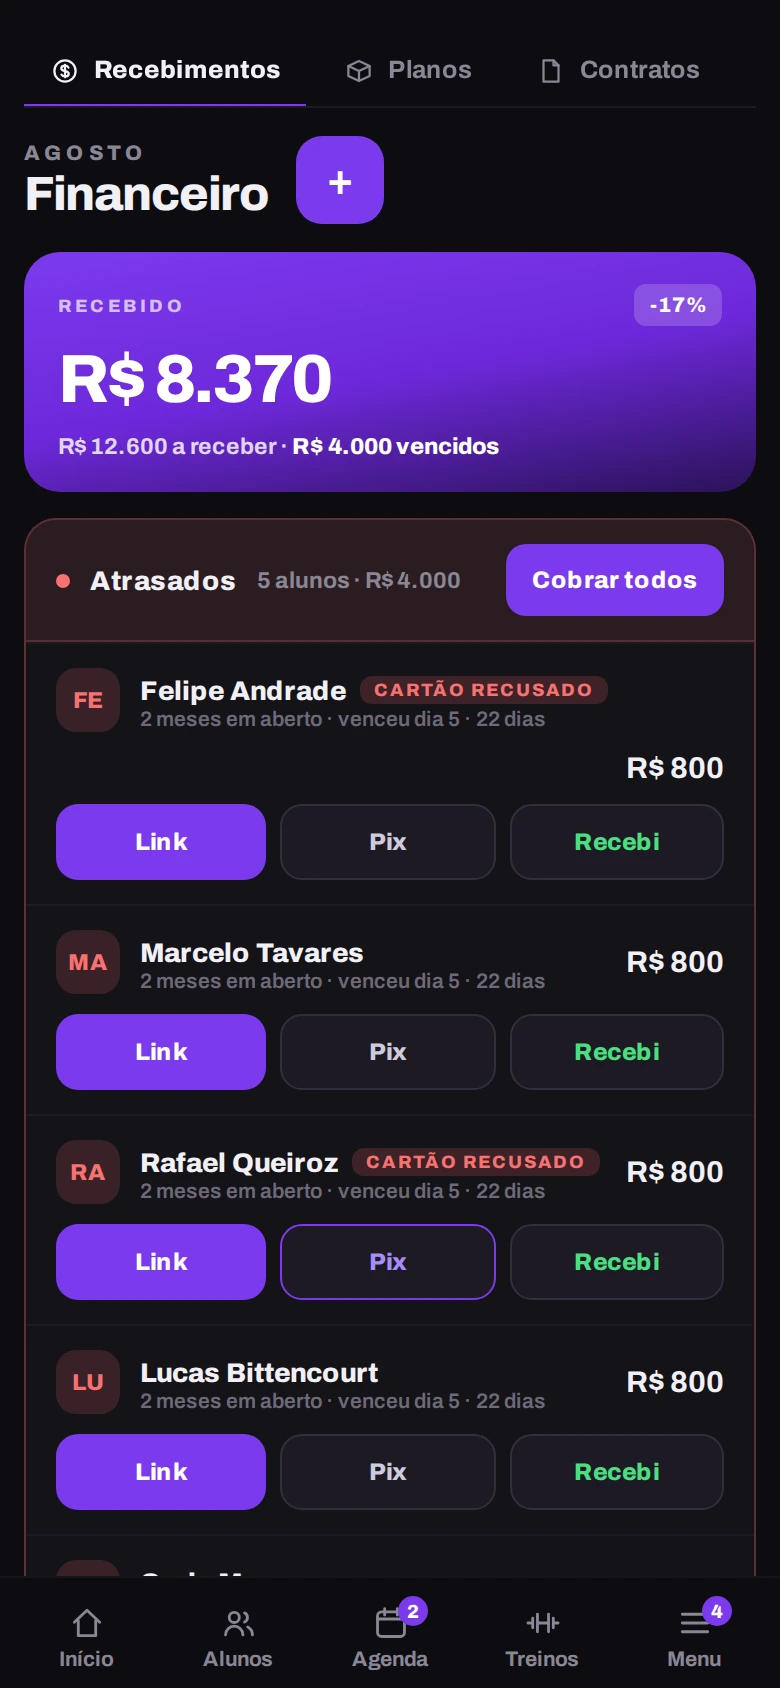
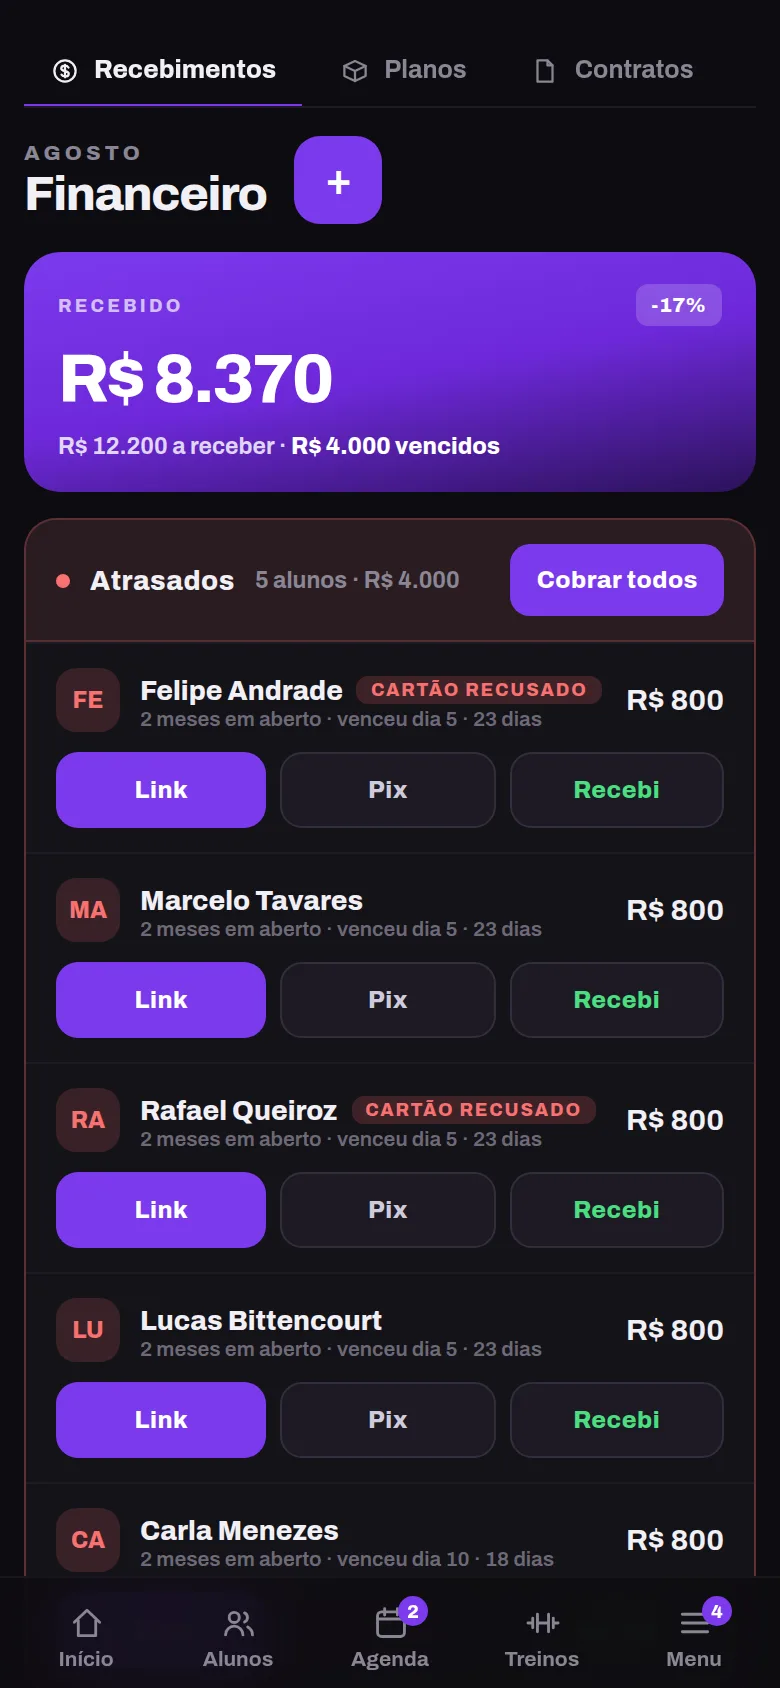
mt-v648: organograma enxuto — os departamentos viram carrossel de telas do painel
A grade de 10 cards de texto (que o Raphael achou extensa demais) virou o
mesmo celular de arrastar da vitrine do app: 8 telas REAIS do painel
(Resolver hoje, Montar treino com IA, Financeiro com atrasados, Alunos com
os filtros, Chat, Avaliação com evolução, Agenda e Minha página), cada uma
com a explicação curta embaixo — chip do departamento, uma frase e o
'Devolve:' verde — trocando junto com o arrasto. O card 00 · Diretoria
fecha a seção sozinho. As telas foram capturadas da demo-personal (com a
faixa de modo teste escondida) e convertidas pra webp; painel-treinos e
painel-financeiro foram trocadas pelas versões do redesenho atual. A seção
'O painel do dono' saiu (repetiria o slide do Financeiro). O JS dos dois
carrosseis virou UMA função (fazTour). Página: 8636 → 7947 px no
computador, 14026 → 11752 no celular.

diff --git a/personal-vendas.html b/personal-vendas.html
@@ -68,6 +68,12 @@
   .tourCap { text-align: center; color: #b9b3c6; font-size: 13.5px; line-height: 1.5; margin-top: 10px; min-height: 40px; }
   .tourDica { text-align: center; color: #8a8695; font-size: 11.5px; letter-spacing: .12em; text-transform: uppercase; font-weight: 700; margin-top: 2px; }
 
+  /* carrossel dos departamentos: legenda embaixo do celular */
+  .depCap { max-width: 460px; margin: 16px auto 0; min-height: 168px; }
+  .depCap .dep { padding: 20px 20px 18px; }
+  .depCap h3 { margin: 10px 0 6px; }
+  .depCap p.tx { font-size: 14px; color: #cfcbdb; line-height: 1.6; }
+
   /* a empresa de uma pessoa só */
   .empGrid { display: grid; grid-template-columns: repeat(3, 1fr); gap: 14px; margin-top: 28px; }
   .emp { background: #17141d; border: 1px solid #2c2739; border-radius: 16px; padding: 22px 20px; }
@@ -81,7 +87,6 @@
   .conta b { color: #f5f4f7; }
 
   /* organograma: departamentos */
-  .depGrid { display: grid; grid-template-columns: 1fr 1fr; gap: 16px; margin-top: 30px; }
   .dep { background: #17141d; border: 1px solid #2c2739; border-radius: 18px; padding: 24px 22px 20px; }
   .dep .tag { display: inline-block; font-size: 11px; font-weight: 800; letter-spacing: .16em; text-transform: uppercase; color: #a78bfa; background: rgba(124,58,237,.14); border: 1px solid rgba(124,58,237,.34); padding: 5px 11px; border-radius: 999px; }
   .dep h3 { font-size: 18px; font-weight: 800; letter-spacing: -.01em; margin: 13px 0 6px; }
@@ -142,7 +147,7 @@
   .rodape a { color: #a78bfa; }
 
   @media (max-width: 760px) {
-    .hero .grid, .sec .grid, .versus .cols, .depGrid { grid-template-columns: 1fr; }
+    .hero .grid, .sec .grid, .versus .cols { grid-template-columns: 1fr; }
     .maisGrid { grid-template-columns: 1fr 1fr; }
     .empGrid { grid-template-columns: 1fr; }
   }
@@ -212,148 +217,44 @@
     <div class="wrap">
       <div class="kicker">O organograma</div>
       <h2 style="max-width:640px;">Sete departamentos. Um assinante.</h2>
-      <p style="max-width:640px;">Cada bloco abaixo é um cargo que hoje é seu. Veja o que passa a ser do sistema — e o que isso devolve pra sua semana.</p>
+      <p style="max-width:640px;">Cada tela abaixo é um cargo que hoje é seu. Arraste o celular pro lado: um departamento por vez, com o que ele devolve pra sua semana.</p>
 
-      <div class="depGrid">
-
-        <div class="dep">
-          <span class="tag">01 · Produto</span>
-          <h3>Prescrição de treino</h3>
-          <p class="oq">O que você vende — montado em minutos, não em noites.</p>
-          <ul>
-            <li><b>1800+ exercícios</b> com dica de execução, busca por grupamento e favoritos.</li>
-            <li>Fichas <b>A, B, C…</b> com séries, repetições, descanso, observação e <b>técnicas de intensidade</b> (drop-set, rest-pause, bi-set, isometria).</li>
-            <li><b>Parte 2 do dia</b> (A2, B2): o cardio ou alongamento dentro da própria ficha.</li>
-            <li><b>Circuito (WOD)</b>: AMRAP, For Time, EMOM e Tabata com cronômetro de tela cheia.</li>
-            <li><b>Corrida</b> contínua, intervalada — ou as duas no mesmo treino, com pace, tiros e recuperação.</li>
-            <li><b>Semana do aluno</b>: cada dia amarrado a um treino; o padrão vale o mês até você mudar.</li>
-          </ul>
-          <div class="ganho"><b>Devolve:</b> a noite de domingo montando ficha pra semana inteira.</div>
+      <div class="tourWrap" style="margin-top:30px;">
+        <div class="fone tour">
+          <div class="tira" id="depTira" tabindex="0" aria-label="Telas do painel, um departamento por vez — arraste pro lado">
+            <img src="assets/vendas/painel-inicio.webp" data-tag="Seu dia" data-tit="Resolver hoje" data-txt="Você abre e o painel já diz o que resolver: quem cobrar, quem chamar, a próxima sessão — cada um com o botão do lado." data-dev="a lista mental que você carrega o dia inteiro" alt="Início do painel: Bom treino, a próxima sessão com o botão Abrir ficha e o bloco Resolver hoje" width="780" height="1688">
+            <img src="assets/vendas/painel-treinos.webp" data-tag="01 · Produto" data-tit="Treino em minutos, não em noites" data-txt="Fichas A, B, C do banco de 1800+ exercícios, circuito e corrida — e o Gerar com IA monta o mês inteiro obedecendo o que VOCÊ escrever sobre o aluno." data-dev="a noite de domingo montando ficha" loading="lazy" alt="Montar treino: Montando pra Ana Beatriz, botões Gerar com IA e Salvar e publicar, fichas A e B" width="780" height="1688">
+            <img src="assets/vendas/painel-financeiro.webp" data-tag="02 · Financeiro" data-tit="Cobrança que se cobra sozinha" data-txt="Atrasados no topo com Link, Pix e Recebi dentro da linha, 'cobrar todos' de uma vez — e baixa automática caindo direto na SUA conta." data-dev="a planilha e a conversa constrangedora" loading="lazy" alt="Financeiro: recebido do mês no card roxo e a lista de atrasados com os botões de cobrar" width="780" height="1688">
+            <img src="assets/vendas/painel-alunos.webp" data-tag="03 · Comercial" data-tit="Quem está indo embora" data-txt="Aluno não cancela: ele some. Os filtros Ativos · Sumindo · Devendo mostram quem precisa de você antes do cancelamento." data-dev="o aluno que você só viu que sumiu tarde demais" loading="lazy" alt="Lista de alunos com busca, filtros Ativos, Sumindo, Devendo e o selo DEVE 800 na Carla" width="780" height="1688">
+            <img src="assets/vendas/painel-chat.webp" data-tag="04 · Atendimento" data-tit="Fale com todos sem falar com cada um" data-txt="Chat dentro do app com respostas rápidas, robô de primeiras respostas e lembretes automáticos no celular do aluno." data-dev="as 20 respostas de 'qual meu treino hoje?'" loading="lazy" alt="Conversa no chat com a Carla, respostas rápidas Bora treinar, Mandar a ficha e Remarcar" width="780" height="1688">
+            <img src="assets/vendas/painel-avaliacao.webp" data-tag="05 · Qualidade" data-tit="Resultado que o aluno enxerga" data-txt="Avaliação física completa com a evolução comparada entre medições, composição corporal e laudo pronto pra mandar." data-dev="digitar medida em planilha e montar laudo à mão" loading="lazy" alt="Histórico e evolução: 6ª medição da Ana Beatriz, peso caindo 2,9 kg e a composição em barras" width="780" height="1688">
+            <img src="assets/vendas/painel-agenda.webp" data-tag="06 · Operações" data-tit="Agenda que se resolve na linha" data-txt="Pedido de horário confirmado num toque, falta com o botão de cobrar na própria linha — e a agenda vai pro calendário do celular." data-dev="o vai-e-vem de remarcação no WhatsApp" loading="lazy" alt="Agenda do dia com os pedidos de horário esperando e cada sessão com a ação dentro da linha" width="780" height="1688">
+            <img src="assets/vendas/painel-pagina.webp" data-tag="07 · Marketing" data-tit="Empresa tem endereço" data-txt="O sistema publica a sua página de vendas — sua foto, seus planos, seu texto — num link seu. Quem pede aula cai direto no seu WhatsApp." data-dev="a página que você ia fazer 'quando desse tempo'" loading="lazy" alt="Minha página: o endereço publicado com os botões Abrir página e Copiar link" width="780" height="1688">
+          </div>
         </div>
-
-        <div class="dep">
-          <span class="tag">02 · P&amp;D</span>
-          <h3>A IA que prescreve o mês — e obedece você</h3>
-          <p class="oq">Não é gerador genérico: é um assistente que lê o SEU aluno e a SUA ordem.</p>
-          <ul>
-            <li>Monta o <b>mês inteiro</b>: as mesmas fichas com 4 semanas de progressão escrita, a 4ª sempre mais leve.</li>
-            <li>Lê a <b>última avaliação</b>, as <b>cargas reais</b> registradas no app, a frequência dos últimos 28 dias, o esforço percebido, o batimento e o pace das corridas.</li>
-            <li><b>A sua leitura vence os números.</b> O que você escrever sobre lesões, adaptações e limites é regra absoluta pra IA.</li>
-            <li>Exercício que você citar é <b>obrigatório</b>. Pediu ABCD? Sai ABCD.</li>
-            <li>Vale pra <b>musculação, circuito e corrida</b> — cada um no seu formato.</li>
-          </ul>
-          <div class="ganho"><b>Devolve:</b> o rascunho pronto. Você revisa e assina em vez de começar do zero.</div>
+        <div class="tourNav">
+          <button type="button" id="depAnt" aria-label="Departamento anterior">‹</button>
+          <div class="pontos" id="depPts" aria-hidden="true"></div>
+          <button type="button" id="depProx" aria-label="Próximo departamento">›</button>
         </div>
-
+        <p class="tourDica" style="margin-top:10px;">Arraste pro lado — um departamento por tela</p>
+      </div>
+      <div class="depCap">
         <div class="dep">
-          <span class="tag">03 · Entrega</span>
-          <h3>O app do aluno, com a sua marca</h3>
-          <p class="oq">Sua logística: o treino chega, funciona e volta com dados.</p>
-          <ul>
-            <li><b>Sem loja de aplicativo</b>: o aluno abre um link e o app entra na tela de início — com o seu nome e a sua cor.</li>
-            <li><b>Funciona sem internet</b> e sincroniza quando o sinal volta.</li>
-            <li><b>Treino guiado</b>: um exercício por vez, descanso contando sozinho, dica de execução e <b>peso sugerido</b> quando o aluno bate as repetições.</li>
-            <li><b>Corrida com GPS</b>: mapa ao vivo, pace, voz a cada km — e o <b>trajeto em 3D</b> no fim.</li>
-            <li><b>Batimento ao vivo</b> por cinta ou pulseira, com as zonas Z1–Z5.</li>
-            <li><b>XP, medalhas, sequência e a Turma</b> — o jogo que faz o aluno voltar sozinho.</li>
-            <li>Utilidades que criam hábito: <b>água com lembrete</b>, cronômetros, 1RM, anilhas e IMC.</li>
-          </ul>
-          <div class="ganho"><b>Devolve:</b> os PDFs no WhatsApp e o "manda de novo que eu apaguei".</div>
+          <span class="tag" id="depTag"></span>
+          <h3 id="depTit"></h3>
+          <p class="tx" id="depTxt"></p>
+          <div class="ganho" id="depDev"></div>
         </div>
+      </div>
 
-        <div class="dep">
-          <span class="tag">04 · Financeiro</span>
-          <h3>Cobrança, baixa e fechamento</h3>
-          <p class="oq">O departamento que mais custa caro quando fica pra depois.</p>
-          <ul>
-            <li><b>O dinheiro cai direto na SUA conta.</b> Você liga o seu Mercado Pago, Asaas ou Pagar.me — a gente não fica no meio.</li>
-            <li><b>Link de cobrança</b> em cartão, Pix ou boleto, gerado do painel. E Pix com QR na tela do aluno.</li>
-            <li><b>Baixa automática</b>: o aluno pagou, some da lista de devedores sozinho.</li>
-            <li><b>Mensalidade automática</b> no cartão pra quem não quer cobrar todo mês.</li>
-            <li>Atrasados no topo, com o <b>botão de cobrar dentro da linha</b> — e "cobrar todos" de uma vez.</li>
-            <li>Histórico de 6 meses e <b>fechamento do mês</b> pronto pra mandar.</li>
-          </ul>
-          <div class="ganho"><b>Devolve:</b> a planilha do fim do mês e a conversa constrangedora da cobrança.</div>
-        </div>
-
-        <div class="dep">
-          <span class="tag">05 · Comercial</span>
-          <h3>Retenção: quem está indo embora</h3>
-          <p class="oq">Aluno não cancela — ele para de aparecer. O sistema vê antes de você.</p>
-          <ul>
-            <li><b>Resolver hoje</b>: a primeira tela lista só o que muda decisão hoje — quem deve, quem está sem ficha nova, que conversa parou.</li>
-            <li>Lista de alunos com filtros <b>Ativos · Sumindo · Devendo · Encerrados</b> e a ação certa dentro de cada linha.</li>
-            <li><b>Radar e alertas</b>: queda de frequência, carga alta, aniversários.</li>
-            <li><b>Relatórios</b> de movimentação, sessões por semana, faltas e metas do mês.</li>
-          </ul>
-          <div class="ganho"><b>Devolve:</b> o aluno que você só percebeu que sumiu quando já era tarde.</div>
-        </div>
-
-        <div class="dep">
-          <span class="tag">06 · Atendimento</span>
-          <h3>Fale com todos sem falar com cada um</h3>
-          <p class="oq">A pergunta que você responde 20 vezes por semana deixa de existir.</p>
-          <ul>
-            <li><b>Chat dentro do app</b>, com o contexto do aluno do lado: próxima sessão, treino do dia, ficha num toque.</li>
-            <li><b>Robô de primeiras respostas</b>: dúvida às 22h respondida pelo fluxo que você montar — e ele te chama quando é coisa séria.</li>
-            <li><b>WhatsApp oficial no seu número</b>: você conecta a sua conta da Meta e as mensagens saem do SEU número.</li>
-            <li><b>Notificações no celular do aluno</b>: treino do dia, check-in da semana, questionário liberado, cobrança, aniversário e marcos.</li>
-            <li><b>A Turma</b>, sua mini rede social: os alunos postam, curtem e disputam o ranking da semana.</li>
-          </ul>
-          <div class="ganho"><b>Devolve:</b> as 20 respostas de "qual é o meu treino hoje?".</div>
-        </div>
-
-        <div class="dep">
-          <span class="tag">07 · Qualidade</span>
-          <h3>Avaliação e prova de resultado</h3>
-          <p class="oq">O que transforma o seu trabalho em algo que o aluno enxerga.</p>
-          <ul>
-            <li><b>Avaliação física completa</b>: de peso, dobras ou fita sai um laudo estilo bioimpedância — água, massa magra, músculo, TMB, pontuação — <b>imprimível</b>.</li>
-            <li>Tem bioimpedância de verdade? Os valores medidos <b>vencem</b> a estimativa.</li>
-            <li><b>Medidas pela câmera</b> (beta): duas fotos viram circunferências — processadas no próprio celular, a imagem não sobe pra internet.</li>
-            <li><b>Fotos antes e depois</b> com slider de comparação e lembrete mensal.</li>
-            <li><b>Check-in da semana e questionários</b> viram gráficos: sono, dor, disposição e hábitos, com o selo de melhorando, estável ou piorando.</li>
-          </ul>
-          <div class="ganho"><b>Devolve:</b> as horas digitando medida em planilha e montando laudo à mão.</div>
-        </div>
-
-        <div class="dep">
-          <span class="tag">08 · Operações</span>
-          <h3>Agenda</h3>
-          <p class="oq">Um calendário só — semana ou mês, você escolhe o zoom.</p>
-          <ul>
-            <li>O estado de cada sessão <b>dentro da célula</b>: feita, faltou, pedido, devendo — ou a ficha prescrita pra aquele dia.</li>
-            <li><b>Pedidos de horário</b> chegam do app e você confirma num toque.</li>
-            <li>Faltou? A linha já traz o botão de <b>cobrar a aula</b>.</li>
-            <li><b>Manda a agenda pro calendário do celular</b> — o seu e o do aluno.</li>
-          </ul>
-          <div class="ganho"><b>Devolve:</b> o vai-e-vem de remarcação no WhatsApp.</div>
-        </div>
-
-        <div class="dep">
-          <span class="tag">09 · Marketing</span>
-          <h3>Minha página + o marketing dos Stories</h3>
-          <p class="oq">Você tem uma empresa. Empresa tem endereço e propaganda.</p>
-          <ul>
-            <li>O sistema <b>publica a sua página</b> — seus planos, sua foto, seu texto — num endereço pra mandar pro cliente.</li>
-            <li>Quem quer aula cai direto no <b>seu WhatsApp</b>.</li>
-            <li>Cada corrida terminada gera uma <b>arte com o trajeto e o nome do seu studio</b>, pronta pro Stories — seus alunos viram sua propaganda.</li>
-          </ul>
-          <div class="ganho"><b>Devolve:</b> a página que você ia fazer "quando desse tempo".</div>
-        </div>
-
+      <div class="depCap" style="min-height:0;margin-top:18px;">
         <div class="dep dono">
           <span class="tag">00 · Diretoria</span>
           <h3>O único departamento que continua seu</h3>
-          <p class="oq">Decidir, olhar a execução, corrigir o movimento, conhecer a pessoa.</p>
-          <ul>
-            <li>Nada chega no aluno <b>sem você publicar</b>.</li>
-            <li>A IA propõe; <b>quem assina é você</b> — e a sua palavra vence a conclusão dela.</li>
-            <li>Quando falta um dado, o sistema <b>diz que falta</b> — não inventa número na sua tela.</li>
-          </ul>
+          <p class="tx">Decidir, corrigir o movimento, conhecer a pessoa. Nada chega no aluno sem você publicar — e a sua palavra vence a da IA.</p>
           <div class="ganho"><b>Esse é o ponto:</b> o tempo que volta, volta pro que só você sabe fazer.</div>
         </div>
-
       </div>
     </div>
   </section>
@@ -419,16 +320,7 @@
     </div>
   </section>
 
-  <section class="sec inv">
-    <div class="wrap grid">
-      <div class="txt">
-        <div class="kicker">O painel do dono</div>
-        <h2>Você abre e vê só o que muda decisão hoje</h2>
-        <p>A primeira tela não é um mar de gráficos: é o <b style="color:#fff">Resolver hoje</b> — quem precisa ser cobrado, quem está sem ficha nova, quem pediu horário — cada um com o botão do lado. O financeiro se cobra sozinho e o fechamento do mês sai pronto. Planilha, nunca mais.</p>
-      </div>
-      <div class="fone"><img src="assets/vendas/painel-financeiro.webp" alt="Financeiro do painel, com o recebido do mês e cada atrasado com o botão de cobrar na própria linha" loading="lazy" width="780" height="1688"></div>
-    </div>
-  </section>
+  
 
   <section class="versus">
     <div class="wrap">
@@ -588,30 +480,41 @@
     }
   } catch (e) {}
 
-  // o celular que arrasta: pontos, setas, legenda e arrasto de mouse
-  try {
-    var tira = document.getElementById("tourTira");
-    var pts = document.getElementById("tourPts"), capT = document.getElementById("tourCap");
-    var n = tira.children.length;
-    for (var i = 0; i < n; i++) { var s = document.createElement("span"); if (!i) s.className = "on"; pts.appendChild(s); }
-    var atual = function () { return Math.max(0, Math.min(n - 1, Math.round(tira.scrollLeft / tira.clientWidth))); };
-    var pinta = function () {
-      var a = atual();
-      for (var j = 0; j < n; j++) pts.children[j].className = j === a ? "on" : "";
-      capT.textContent = tira.children[a].getAttribute("data-cap") || "";
-    };
-    tira.addEventListener("scroll", function () { requestAnimationFrame(pinta); });
-    document.getElementById("tourAnt").addEventListener("click", function () { tira.scrollBy({ left: -tira.clientWidth, behavior: "smooth" }); });
-    document.getElementById("tourProx").addEventListener("click", function () { tira.scrollBy({ left: tira.clientWidth, behavior: "smooth" }); });
-    var mx = null, sl = 0;
-    tira.addEventListener("pointerdown", function (e) { if (e.pointerType !== "mouse") return; mx = e.clientX; sl = tira.scrollLeft; tira.classList.add("pegando"); e.preventDefault(); });
-    window.addEventListener("pointermove", function (e) { if (mx === null) return; tira.scrollLeft = sl - (e.clientX - mx); });
-    window.addEventListener("pointerup", function () {
-      if (mx === null) return; mx = null; tira.classList.remove("pegando");
-      tira.scrollTo({ left: atual() * tira.clientWidth, behavior: "smooth" });
-    });
-    pinta();
-  } catch (e) {}
+  // os celulares que arrastam: pontos, setas, legenda e arrasto de mouse
+  function fazTour(idTira, idAnt, idProx, idPts, pintaCap) {
+    try {
+      var tira = document.getElementById(idTira);
+      var pts = document.getElementById(idPts);
+      var n = tira.children.length;
+      for (var i = 0; i < n; i++) { var s = document.createElement("span"); if (!i) s.className = "on"; pts.appendChild(s); }
+      var atual = function () { return Math.max(0, Math.min(n - 1, Math.round(tira.scrollLeft / tira.clientWidth))); };
+      var pinta = function () {
+        var a = atual();
+        for (var j = 0; j < n; j++) pts.children[j].className = j === a ? "on" : "";
+        pintaCap(tira.children[a]);
+      };
+      tira.addEventListener("scroll", function () { requestAnimationFrame(pinta); });
+      document.getElementById(idAnt).addEventListener("click", function () { tira.scrollBy({ left: -tira.clientWidth, behavior: "smooth" }); });
+      document.getElementById(idProx).addEventListener("click", function () { tira.scrollBy({ left: tira.clientWidth, behavior: "smooth" }); });
+      var mx = null, sl = 0;
+      tira.addEventListener("pointerdown", function (e) { if (e.pointerType !== "mouse") return; mx = e.clientX; sl = tira.scrollLeft; tira.classList.add("pegando"); e.preventDefault(); });
+      window.addEventListener("pointermove", function (e) { if (mx === null) return; tira.scrollLeft = sl - (e.clientX - mx); });
+      window.addEventListener("pointerup", function () {
+        if (mx === null) return; mx = null; tira.classList.remove("pegando");
+        tira.scrollTo({ left: atual() * tira.clientWidth, behavior: "smooth" });
+      });
+      pinta();
+    } catch (e) {}
+  }
+  fazTour("tourTira", "tourAnt", "tourProx", "tourPts", function (img) {
+    document.getElementById("tourCap").textContent = img.getAttribute("data-cap") || "";
+  });
+  fazTour("depTira", "depAnt", "depProx", "depPts", function (img) {
+    document.getElementById("depTag").textContent = img.getAttribute("data-tag") || "";
+    document.getElementById("depTit").textContent = img.getAttribute("data-tit") || "";
+    document.getElementById("depTxt").textContent = img.getAttribute("data-txt") || "";
+    document.getElementById("depDev").innerHTML = "<b>Devolve:</b> " + (img.getAttribute("data-dev") || "");
+  });
 })();
 </script>
 </body>

diff --git a/sw.js b/sw.js
@@ -14,7 +14,7 @@ importScripts("assets/content.js");
  * a resposta que vinha sempre igual.
  *
  * tests/test-versao.js não deixa este número ficar diferente do versao.js. */
-var VERSION = "mt-v647";
+var VERSION = "mt-v648";
 var PRECACHE = "precache-" + VERSION;
 var RUNTIME = "runtime-" + VERSION;
 // O leitor de imagem das Medidas pela câmera tem ~17 MB e vive numa cache

diff --git a/assets/versao.js b/assets/versao.js
@@ -6,5 +6,5 @@
  * uma versão velha e ninguém enxerga.
  */
 (function (raiz) {
-  raiz.MT_VERSAO = "mt-v647";
+  raiz.MT_VERSAO = "mt-v648";
 })(typeof self !== "undefined" ? self : this);
